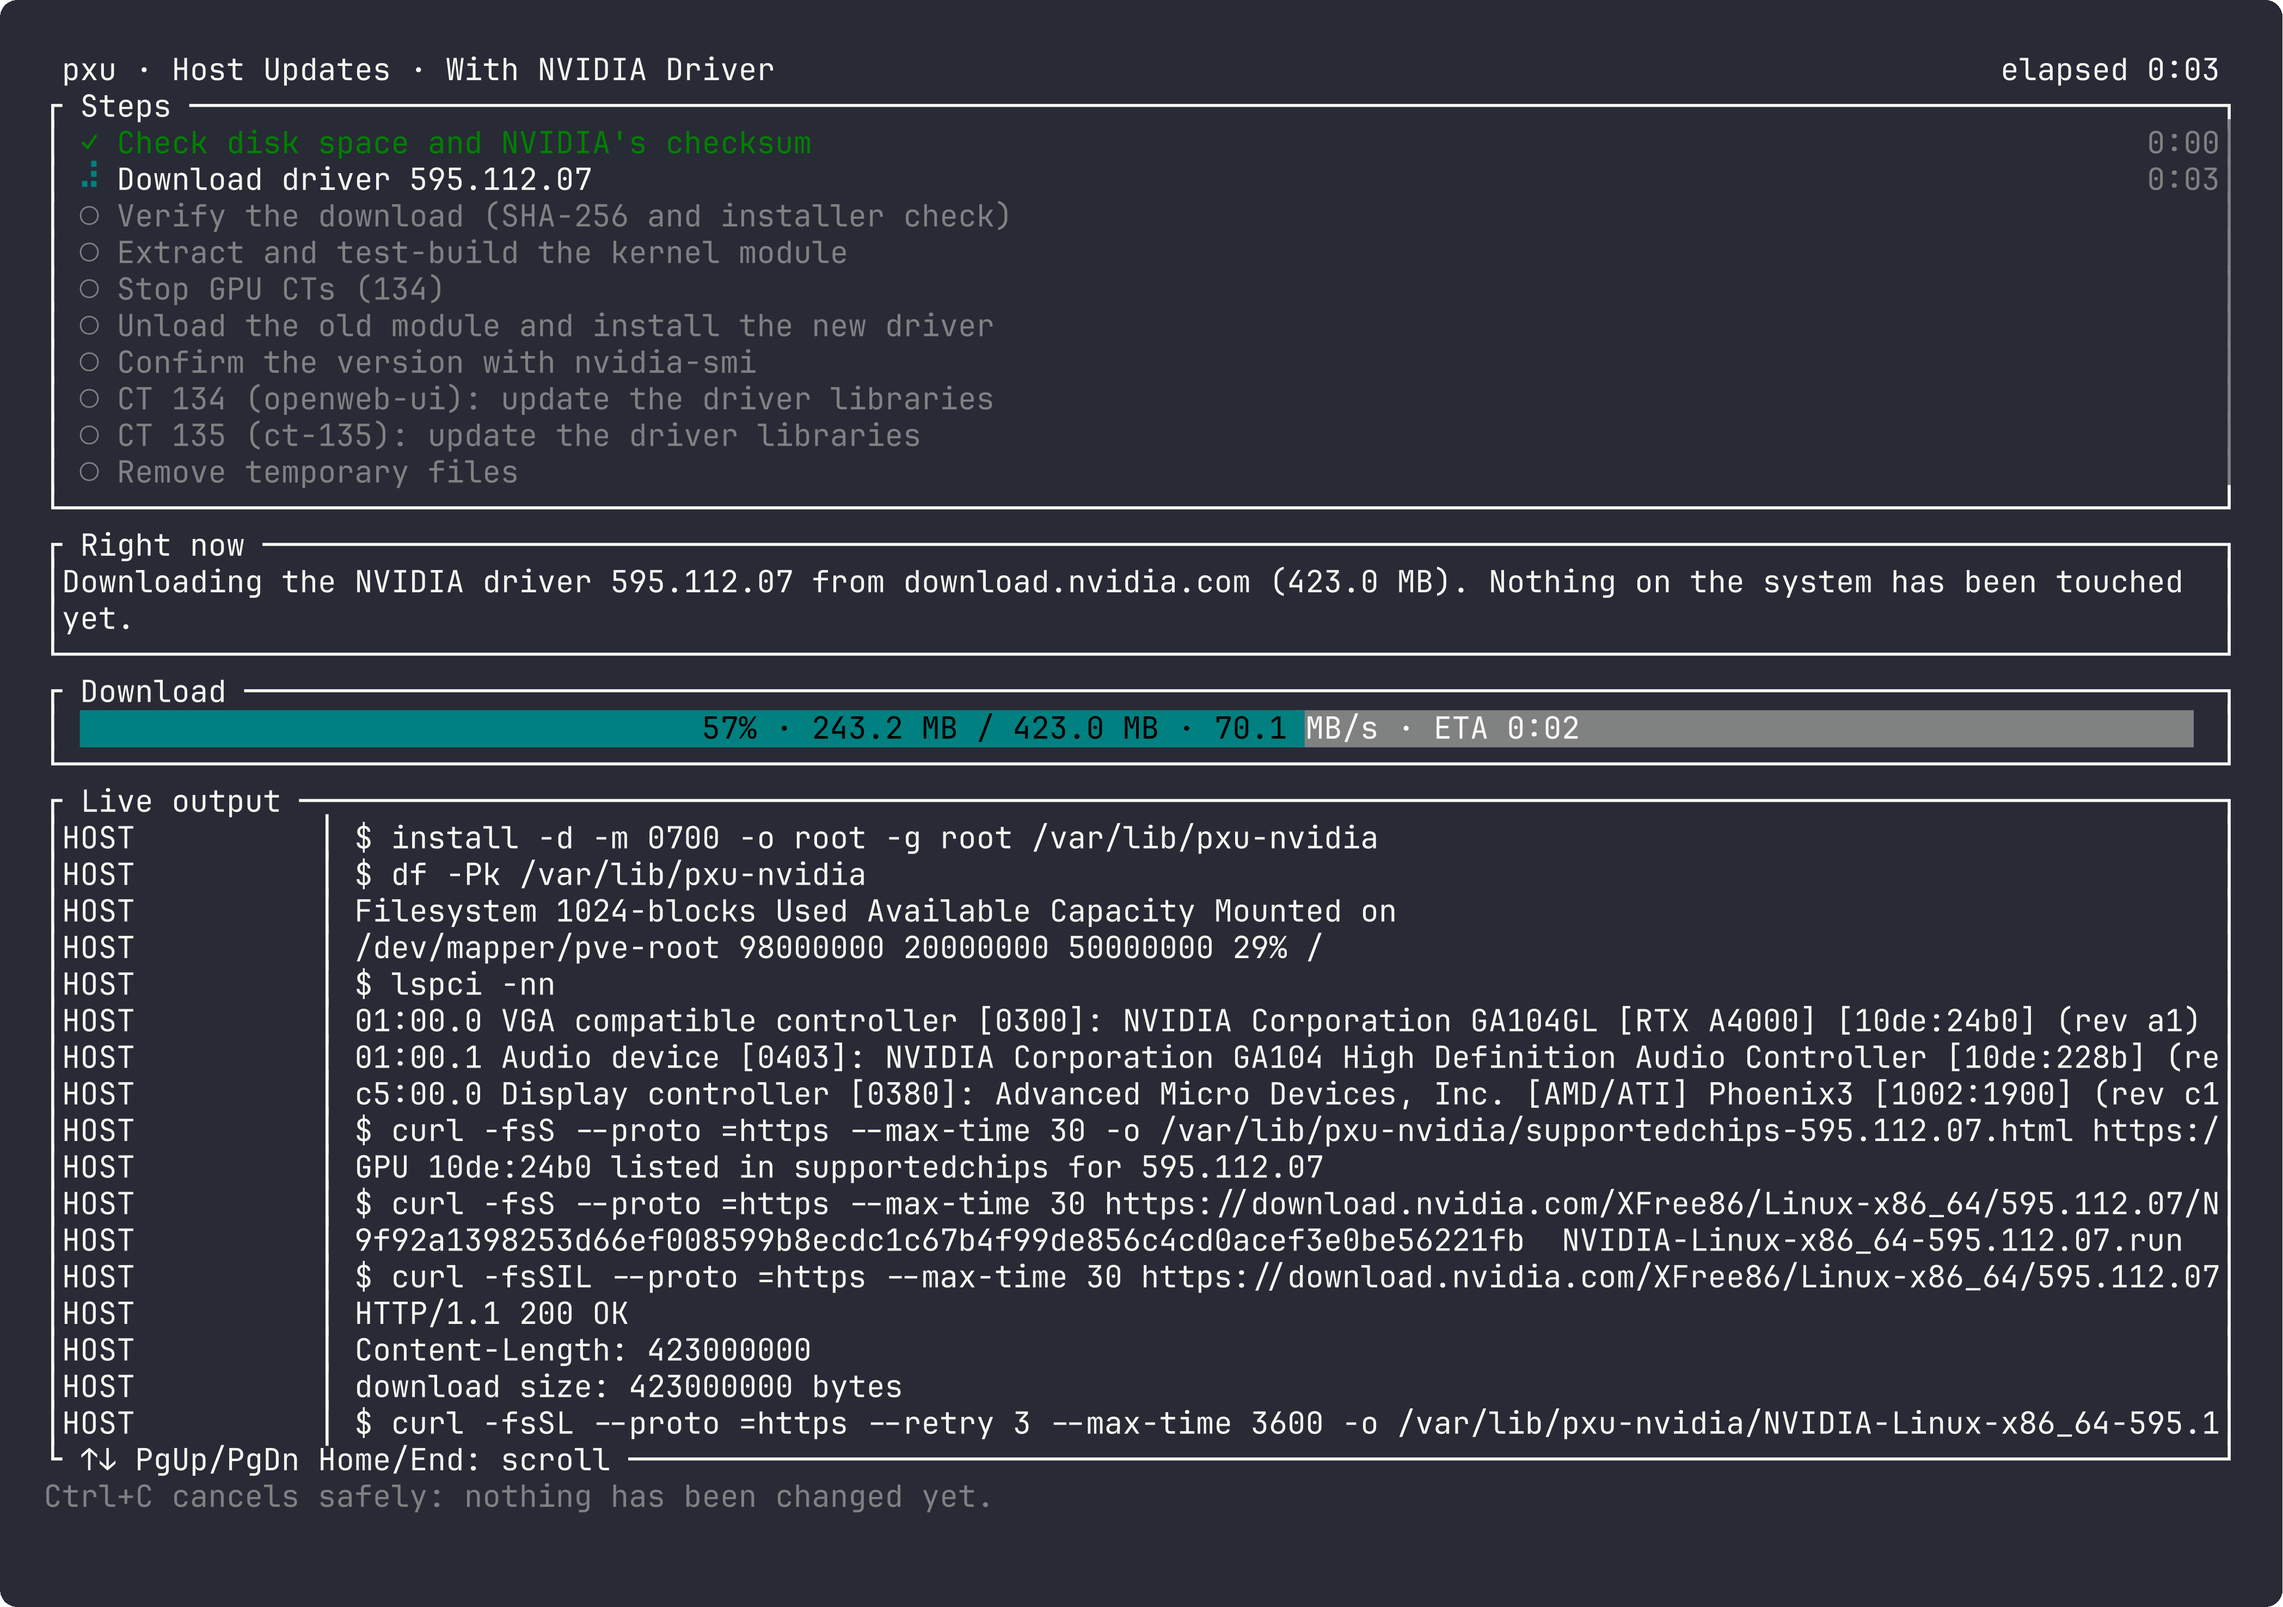
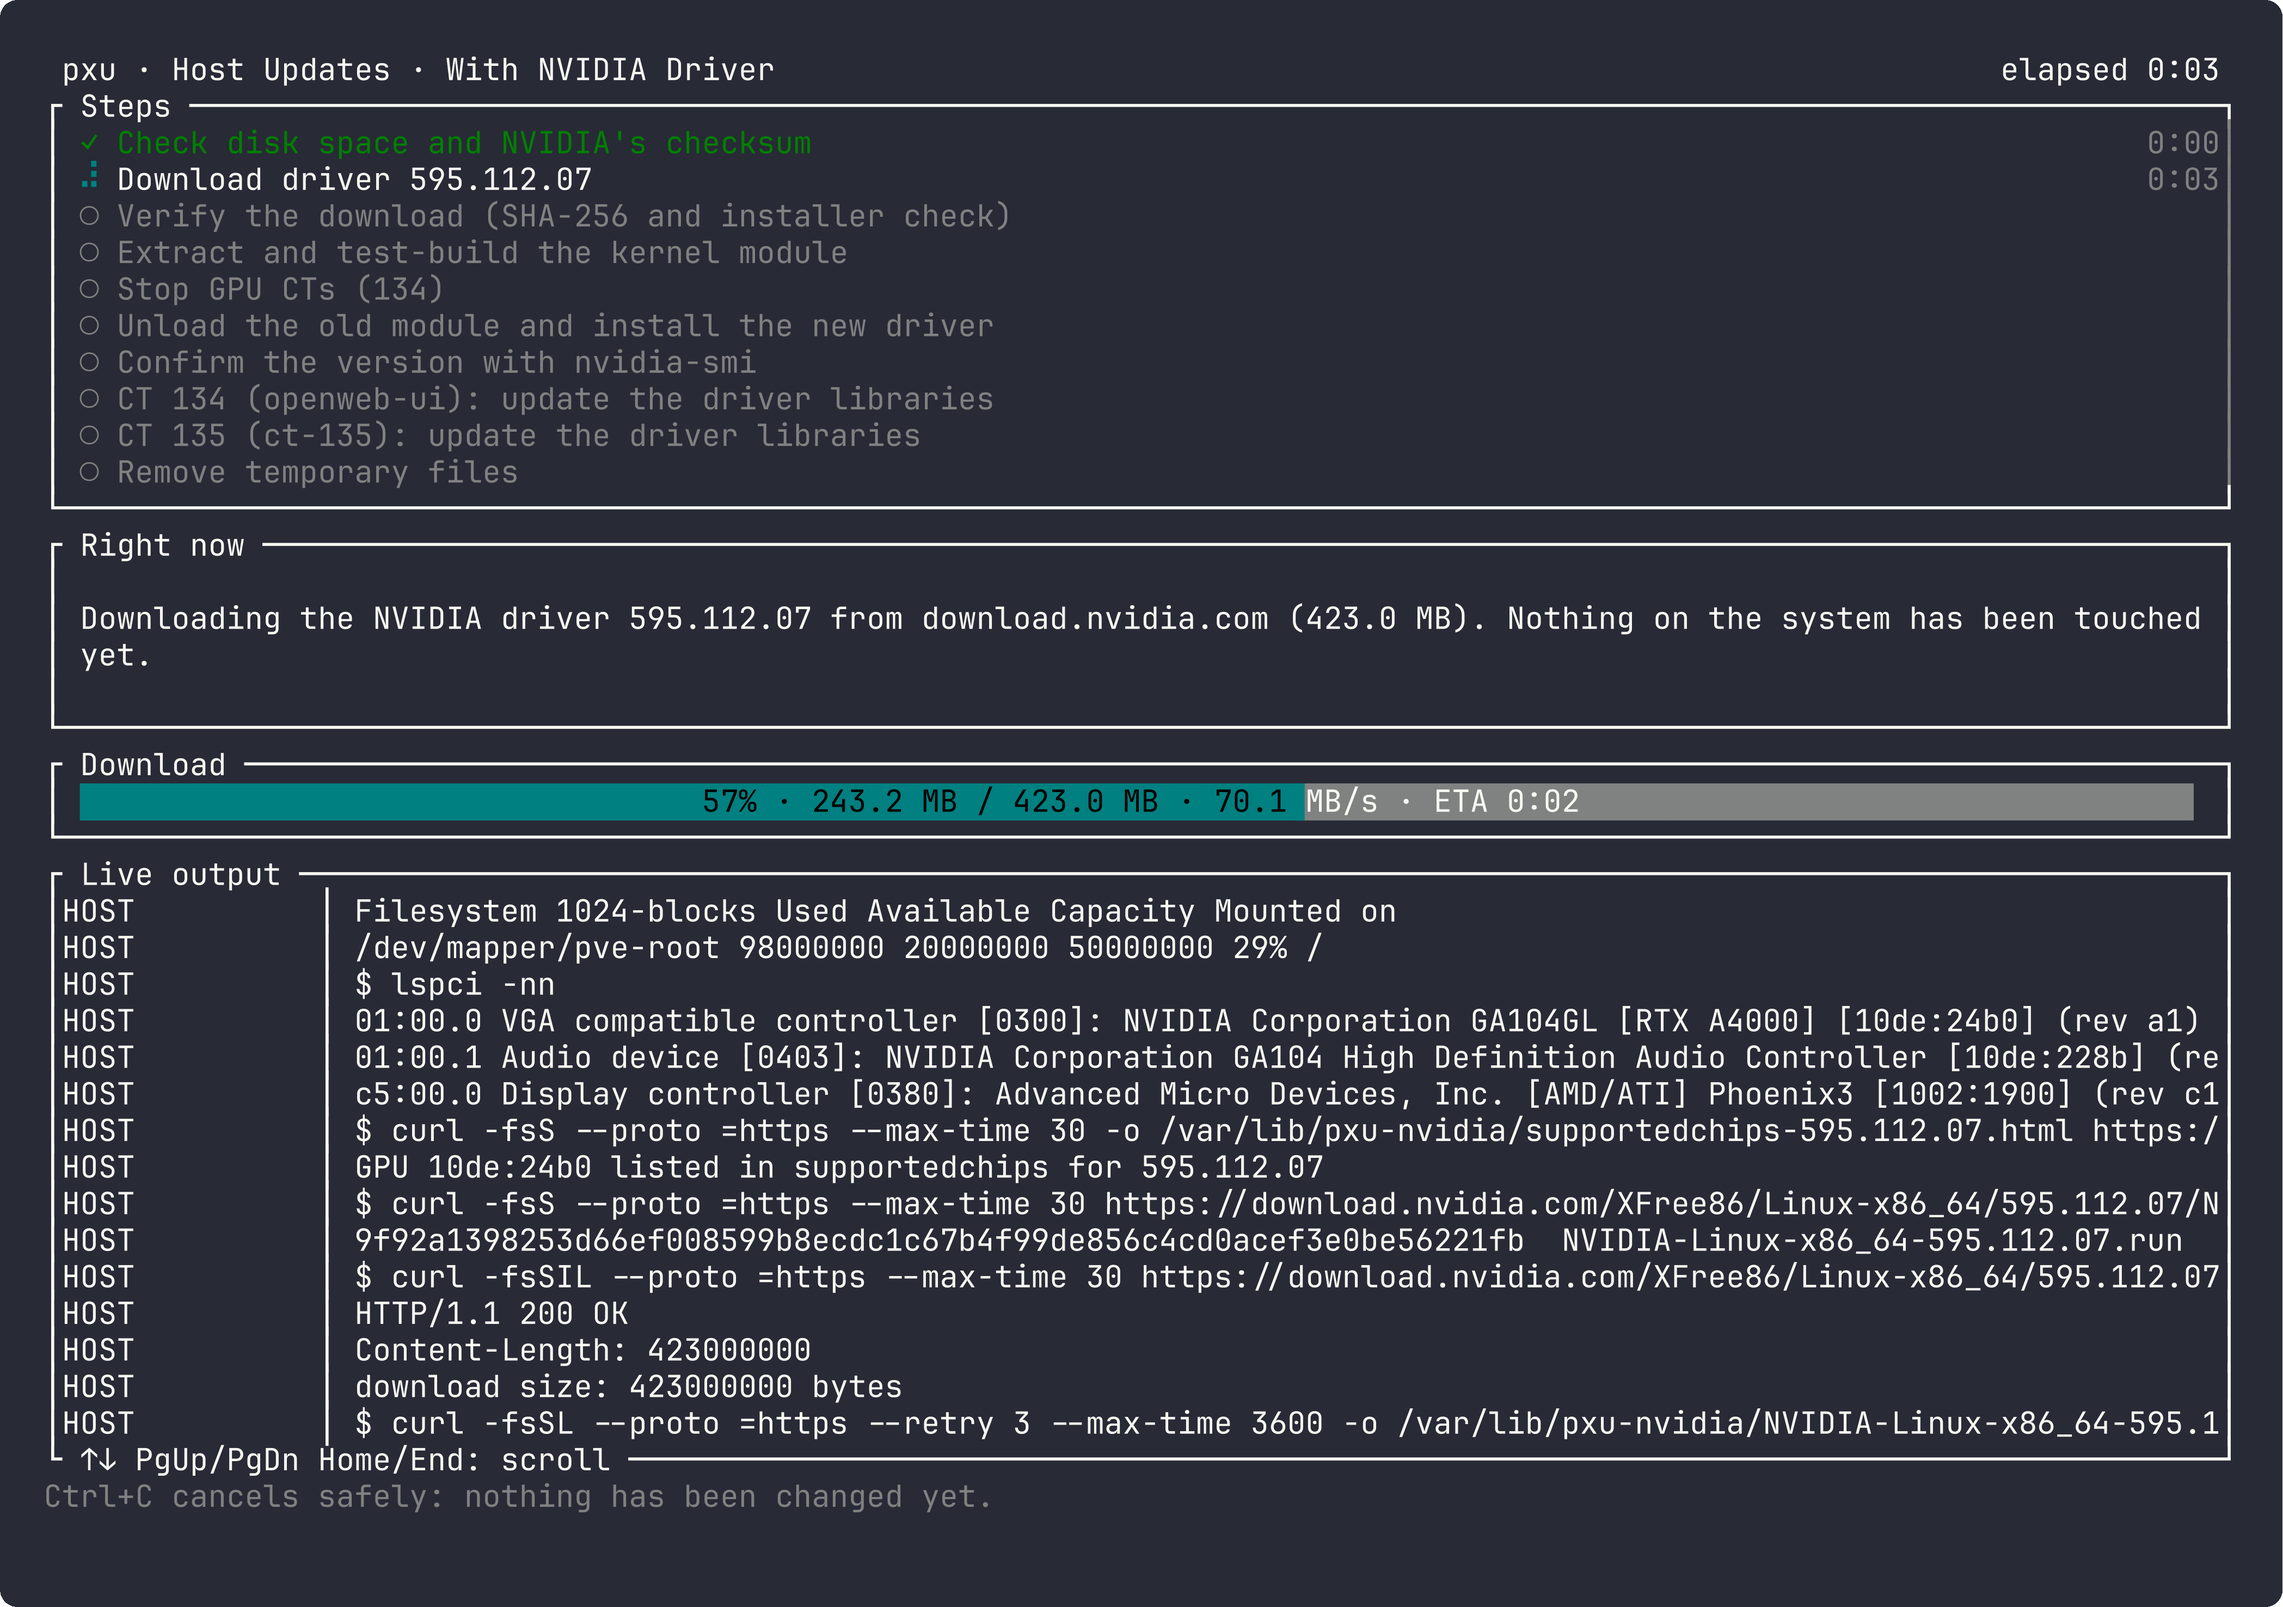
♻ refactor live ui download bar logic

Changed region(s): [[0.0312, 0.3428, 0.9683, 0.561]]

diff --git a/src/cli/live.rs b/src/cli/live.rs
@@ -9,7 +9,7 @@ use pxu::share::update::{self, nvidia, Event, Outcome, RunReport, Step};
 use ratatui::layout::{Constraint, Layout};
 use ratatui::style::{Color, Modifier, Style};
 use ratatui::text::{Line, Span};
-use ratatui::widgets::{Block, Borders, Clear, List, ListItem, Paragraph, Wrap};
+use ratatui::widgets::{Block, Borders, Clear, List, ListItem, Padding, Paragraph, Wrap};
 use ratatui::Frame;
 use std::collections::VecDeque;
 use std::sync::atomic::{AtomicBool, Ordering};
@@ -594,9 +594,15 @@ fn badge(st: St, at: Duration) -> (String, Style) {
 
 pub fn draw(f: &mut Frame, m: &Live, at: Duration) {
     let area = f.area();
-    let show_dl = m.dl.is_some() && m.rows.iter().any(|r| r.key == Key::Download);
+    // la barra solo se ve mientras se descarga: al llegar al 100 % (o al pasar al paso siguiente) desaparece
+    let show_dl = m.end.is_none()
+        && m.cur.is_some_and(|i| m.rows[i].key == Key::Download)
+        && m.dl.as_ref().is_some_and(|d| d.fraction().is_none_or(|x| x < 1.0));
     let steps_h = (m.rows.len() as u16 + 2).min(area.height.saturating_sub(10).max(4));
-    let now_h = if m.end.is_some() { (m.end.as_ref().map_or(0, |s| s.lines.len()) as u16 + 4).min(10) } else { 4 };
+    // «Right now»: 1 columna de margen a cada lado y el texto centrado en vertical (una fila libre arriba y otra abajo)
+    let doing_w = area.width.saturating_sub(4).max(1) as usize;
+    let doing_lines = (m.doing.chars().count().div_ceil(doing_w)).max(1) as u16;
+    let now_h = if m.end.is_some() { (m.end.as_ref().map_or(0, |s| s.lines.len()) as u16 + 4).min(10) } else { doing_lines + 4 };
     // el aviso de cancelación es largo: el pie crece con las líneas que ocupa (nunca se corta lo que va a pasar)
     let foot_h = match (&m.notice, &m.end) {
         (Some(n), None) => (((n.chars().count() + 2) as u16).div_ceil(area.width.max(1)) + 1).clamp(2, 8), // +1: el ajuste por palabras gasta algo más que la división
@@ -651,7 +657,11 @@ pub fn draw(f: &mut Frame, m: &Live, at: Duration) {
 
     // ahora / resumen
     match &m.end {
-        None => f.render_widget(Paragraph::new(m.doing.as_str()).wrap(Wrap { trim: true }).block(Block::default().borders(Borders::ALL).title(" Right now ")), now),
+        None => {
+            let top = now.height.saturating_sub(2 + doing_lines) / 2;
+            let block = Block::default().borders(Borders::ALL).title(" Right now ").padding(Padding::new(1, 1, top, 0));
+            f.render_widget(Paragraph::new(m.doing.as_str()).wrap(Wrap { trim: true }).block(block), now)
+        }
         Some(s) => {
             let (head, color) = match s.outcome {
                 Outcome::Ok => (format!("✓ Finished OK in {}", fmt_dur(s.took)), Color::Green),
@@ -680,16 +690,14 @@ pub fn draw(f: &mut Frame, m: &Live, at: Duration) {
         if let Some(d) = &m.dl {
             let speed = d.speed().map_or("– MB/s".into(), |v| format!("{}/s", fmt_bytes(v as u64)));
             let eta = d.eta().map_or("ETA –".into(), |e| format!("ETA {}", fmt_dur(e)));
-            let done = m.end.is_some() || m.cur.is_some_and(|i| m.rows[i].key != Key::Download);
-            let got = if done { d.total.unwrap_or(d.got) } else { d.got };
-            let of = d.total.map_or(fmt_bytes(got), |t| format!("{} / {}", fmt_bytes(got), fmt_bytes(t)));
+            let of = d.total.map_or(fmt_bytes(d.got), |t| format!("{} / {}", fmt_bytes(d.got), fmt_bytes(t)));
             let pct = d.fraction().map_or(String::new(), |x| format!("{:>3.0}% · ", x * 100.0));
-            let label = if done { format!("{of} · downloaded") } else { format!("{pct}{of} · {speed} · {eta}") };
+            let label = format!("{pct}{of} · {speed} · {eta}");
             let frame = Block::default().borders(Borders::ALL).title(" Download ");
             let inner = frame.inner(dl).inner(ratatui::layout::Margin { horizontal: 1, vertical: 0 });
             f.render_widget(frame, dl);
             // sin glifos de bloque: cada celda es un espacio con color de fondo, así la barra mide lo mismo en toda su longitud
-            let ratio = if done { 1.0 } else { d.fraction().unwrap_or(0.0) }.clamp(0.0, 1.0);
+            let ratio = d.fraction().unwrap_or(0.0).clamp(0.0, 1.0);
             let w = inner.width as usize;
             let filled = (w as f64 * ratio).round() as usize;
             let chars: Vec<char> = label.chars().take(w).collect();
@@ -1055,6 +1063,19 @@ mod tests {
         }
         assert_eq!(m.states()[..3], [St::Ok, St::Running, St::Pending]);
         assert!(!m.critical());
+    }
+
+    #[test]
+    fn the_download_bar_disappears_at_100_percent_and_after_the_download_step() {
+        let mut m = Live::nvidia();
+        start_download(&mut m);
+        m.observe_download(s(4), 0);
+        m.observe_download(s(9), 200_000_000);
+        assert!(render(&m, 9).contains("Download ─"), "the bar is visible while downloading");
+        m.observe_download(s(14), 423_000_000);
+        assert!(!render(&m, 14).contains("Download ─"), "no bar at 100 %");
+        line(&mut m, 200, 0, "$ sha256sum /var/lib/pxu-nvidia/NVIDIA-Linux-x86_64-595.112.07.run");
+        assert!(!render(&m, 200).contains("Download ─"), "no bar after the download step");
     }
 
     #[test]
